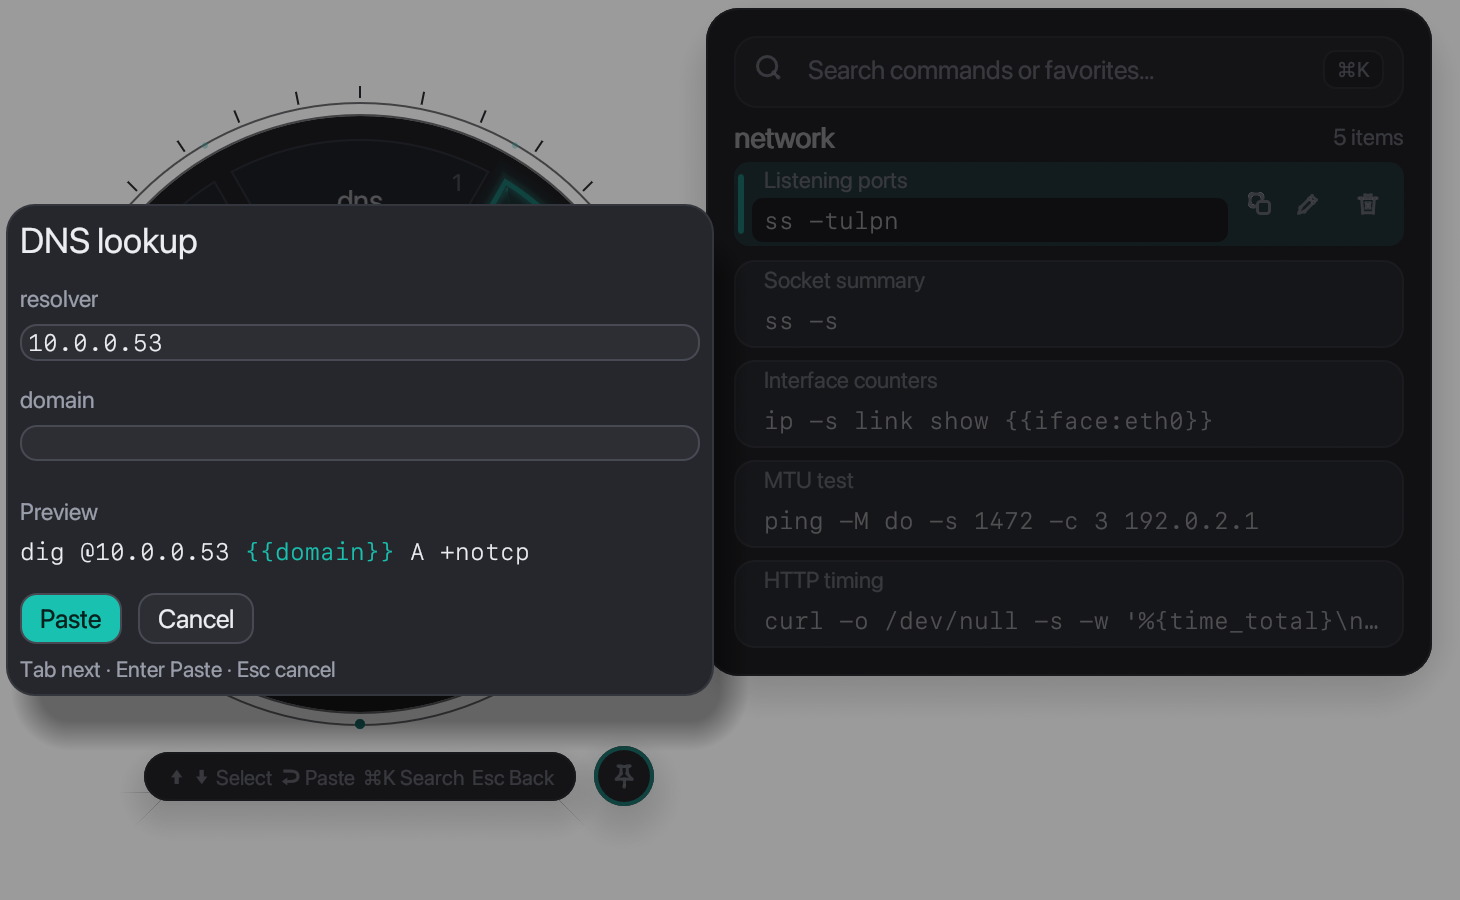
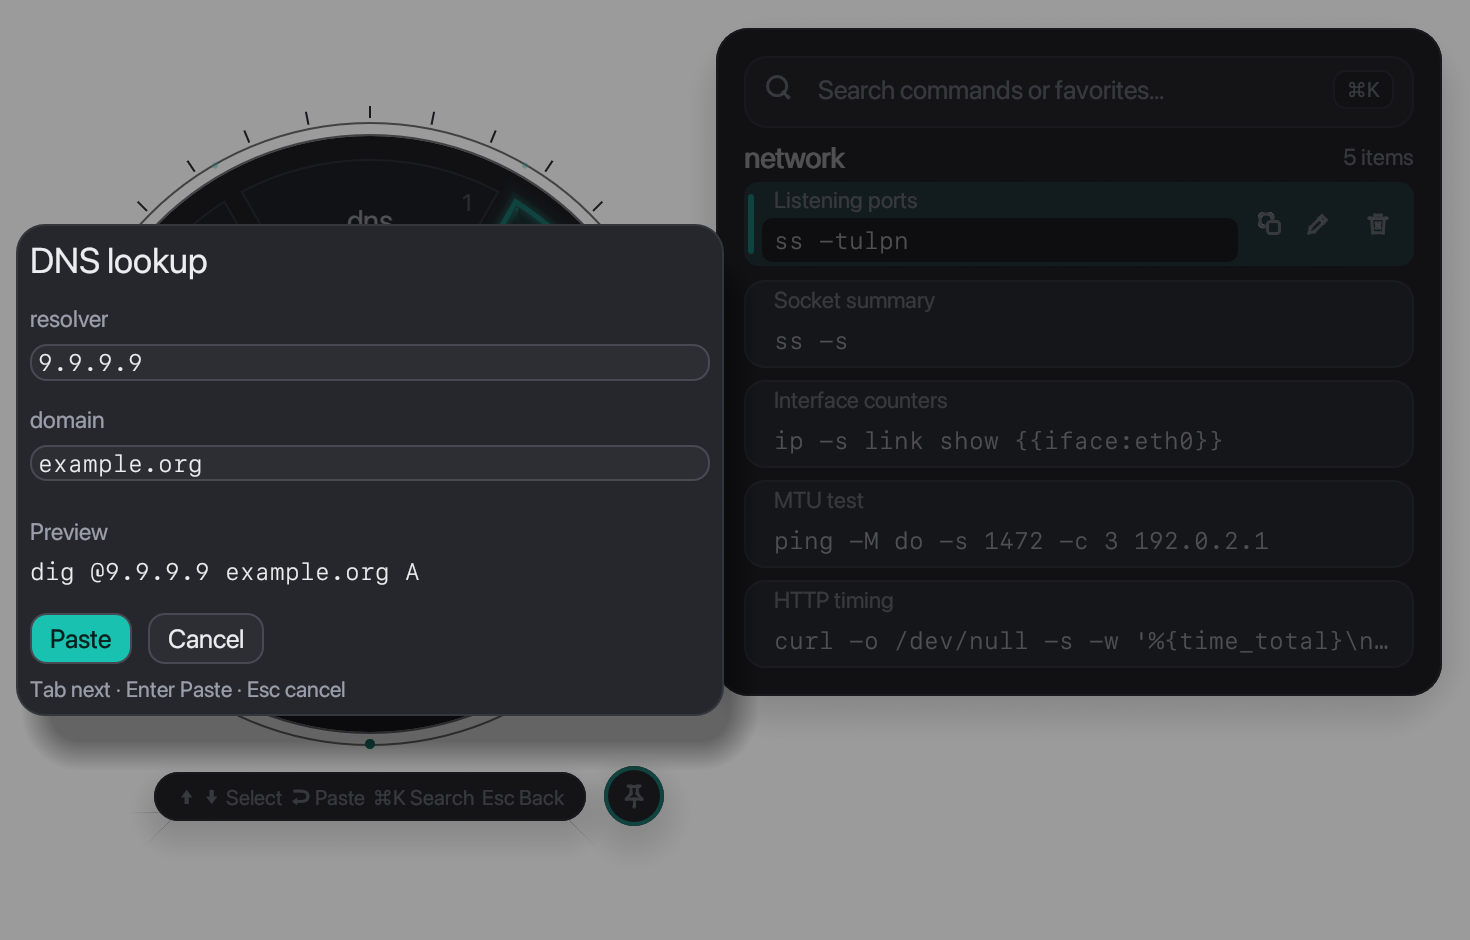
Rewrite README as a screenshot tour

diff --git a/src/app.rs b/src/app.rs
@@ -349,7 +349,7 @@ impl App {
             app.pending_snippet = Some(PendingSnippet {
                 prompt: forms::SnippetPrompt::new(
                     "DNS lookup",
-                    vec!["dig @{{resolver:10.0.0.53}} {{domain}} A +notcp".into()],
+                    vec!["dig @{{resolver:9.9.9.9}} {{domain:example.org}} A".into()],
                     &HashMap::new(),
                 ),
                 request: ClipboardRequest { items: Vec::new(), paste: true, close: true },

diff --git a/README.md b/README.md
@@ -1,55 +1,89 @@
-# CopyWheel
+<div align="center">
+  <h1>CopyWheel</h1>
+  <p>A keyboard-first clipboard history and command wheel for macOS.</p>
+  <p>
+    <a href="https://github.com/guneskursad/copywheel/releases/latest"><img src="https://img.shields.io/github/v/release/guneskursad/copywheel?label=latest%20release" alt="Latest release"></a>
+    <a href="LICENSE"><img src="https://img.shields.io/badge/license-AGPL--3.0-blue" alt="AGPL-3.0 license"></a>
+    <img src="https://img.shields.io/badge/platform-macOS%2011%2B-lightgrey" alt="macOS 11 or later">
+  </p>
+  <p><strong><a href="https://github.com/guneskursad/copywheel/releases/latest/download/CopyWheel.dmg">Download CopyWheel.dmg</a></strong></p>
+</div>
 
-Keyboard-first clipboard history, command favorites, and radial wheel for macOS.
+<img src="docs/images/hero.png" width="100%" alt="CopyWheel command wheel with an open group of saved commands">
 
-CopyWheel keeps your clipboard history and saved commands a single keystroke away in a fast native macOS utility. Browse and search recent clips in a two-pane panel with a full content preview, or launch frequently used commands from a radial wheel organized by nested groups. Everything runs locally on your Mac with zero network access and full dark mode support.
+## Two shortcuts
 
-## Screenshots
+| Shortcut | Opens |
+| --- | --- |
+| `⌘⇧V` | The panel for History, Favorites, and Settings |
+| `⌃⇧F` | The wheel |
 
-| Clipboard history & preview | Radial wheel | Snippet variable prompt |
-| --- | --- | --- |
-| ![Clipboard history panel with preview pane](docs/images/history.png) | ![Radial wheel showing command groups](docs/images/wheel.png) | ![Snippet variable prompt dialog](docs/images/snippet.png) |
+## Tour
 
-## Features
+### Clipboard history
 
-- **Two-pane panel with preview** — Browse clipboard history or favorites on the left while reading the full, unwrapped content and metadata (source app, timestamp, length) on the right.
-- **Fuzzy search with frecency** — Instant filtering across clipboard text, source app, favorite titles, and group paths, ranked by match quality and frecency (frequency + recency).
-- **Favorites in nested groups** — Organize reusable commands and text snippets into collapsible, arbitrarily nested groups with color markers.
-- **Radial wheel** — Trigger a circular launcher to jump into command groups and paste items with `⌘1`–`⌘9` or arrow keys; reopens on the last used segment and page.
-- **Snippet variables** — Parameterize commands with `{{name}}` and `{{name:default}}` placeholders and fill them in a keyboard-driven prompt before pasting.
-- **Dark mode** — Follows macOS System appearance automatically or switches manually between Light and Dark themes in Settings.
-- **Password-manager protection** — Automatically skips concealed, transient, and auto-generated pasteboard items so copied passwords are not stored.
-- **Local only** — All data stays on your Mac with no cloud sync, telemetry, or network connections.
+Search recent clips and preview their full content in the panel. Press Return to paste the selected clip.
+
+<img src="docs/images/panel.png" width="100%" alt="Clipboard history with a list of recent clips and a preview of the selected command">
+
+### Favorites in groups
+
+Save commands and reusable text as favorites. Organize them in color-coded groups that can nest inside one another.
+
+<img src="docs/images/favorites.png" width="100%" alt="Favorites panel showing saved commands organized by group">
+
+### The wheel
+
+Open a group from the wheel and choose a saved command from the list beside it. The wheel remembers your last segment and page.
+
+<img src="docs/images/wheel.png" width="100%" alt="Command wheel in light mode with a selected segment and its saved commands in a side list">
+
+### Jump with numbers
+
+Hold Command to see the shortcut numbers. Press Command and a number to select a segment or use an item in the active list.
+
+<img src="docs/images/shortcuts.png" width="100%" alt="Command wheel with number shortcuts visible on its segments">
+
+### Snippet variables
+
+Add placeholders to a favorite. CopyWheel asks for their values before copying or pasting the snippet.
+
+```text
+dig @{{resolver:9.9.9.9}} {{domain:example.org}} A
+```
+
+<img src="docs/images/snippet.png" width="100%" alt="Snippet prompt with fields for a DNS resolver and domain">
+
+### Light and dark
+
+Follow the system appearance or pick Light or Dark in Settings.
+
+<table>
+  <tr>
+    <td width="50%"><img src="docs/images/theme-light.png" width="100%" alt="Clipboard history in light mode"></td>
+    <td width="50%"><img src="docs/images/panel.png" width="100%" alt="Clipboard history in dark mode"></td>
+  </tr>
+</table>
+
+### Settings
+
+Change shortcuts, auto-paste, and how CopyWheel keeps your history. You can also import or export a backup.
+
+<img src="docs/images/settings.png" width="100%" alt="Settings panel showing appearance, history, and keyboard shortcut options">
 
 ## Install
 
-Download the latest `.dmg` archive from the Releases page, open it, and drag `CopyWheel.app` into your `Applications` folder. See [docs/INSTALL.md](docs/INSTALL.md) for Gatekeeper first-open steps, Accessibility permission setup for auto-paste, data locations, and uninstall instructions.
+1. Download the DMG, open it, and drag CopyWheel to Applications.
+2. On first launch, right-click CopyWheel and choose **Open**. The app is unnotarized. If macOS still blocks it, see the install guide.
+3. Grant CopyWheel **Accessibility** access to enable auto-paste.
+4. Press `⌘⇧V` to open the panel.
 
-## Build from source
-
-Building requires a Rust toolchain, Xcode Command Line Tools, and macOS. From the repository root:
-
-```bash
-# Build CopyWheel.app
-scripts/make-app.sh
-
-# Package a distributable DMG and SHA256SUMS in dist/
-scripts/make-dmg.sh
-```
+See the [install guide](docs/INSTALL.md) for details.
 
 ## Keyboard shortcuts
 
-### Global hotkeys
-
-Default shortcuts can be customized in **Settings** (`⌘,`):
-
-| Shortcut | Action |
-| --- | --- |
-| `⌘⇧V` | Open the History panel (press again while open to toggle History ↔ Favorites) |
-| `⌃⌥F` | Open the Favorites panel |
-| `⌃⇧F` | Open the radial wheel |
-
-### Panel
+<details>
+<summary>Panel</summary>
 
 | Key / Mouse | Action |
 | --- | --- |
@@ -72,7 +106,10 @@ Default shortcuts can be customized in **Settings** (`⌘,`):
 | `⌘,` | Open Settings |
 | `Esc` | Close popup → clear marks → clear query → hide panel |
 
-### Wheel
+</details>
+
+<details>
+<summary>Wheel</summary>
 
 The wheel reopens on the last used segment and page.
 
@@ -91,25 +128,32 @@ The wheel reopens on the last used segment and page.
 | `⌘J` | Next page on the main wheel |
 | `Esc` | Return from side list to wheel, go up one group level, or close |
 
-## Snippet variables
-
-Any favorite can include placeholders using `{{name}}` or `{{name:default}}`, where `name` uses `[A-Za-z0-9_.-]`.
-
-```text
-dig @{{resolver:9.9.9.9}} {{domain:example.org}} A
-```
-
-When you paste or copy a favorite containing variables, CopyWheel opens a compact prompt with one input per variable in order of first appearance. Each field is prefilled with the last value you used for that variable (or its default if none has been saved yet). Press `Tab` / `⇧Tab` to move between fields, `↵` to fill and paste, or `Esc` to cancel.
+</details>
 
 ## Privacy
 
-- **Local storage only**: All clipboard history, favorites, and settings stay on your Mac under `~/Library/Application Support/CopyWheel/`. The directory is created with mode `0700` and all stored files (`data.json`, `images/*`, temporary files, and exports) are written with mode `0600`.
-- **No network access**: CopyWheel makes no outbound network requests and collects no telemetry.
-- **Sensitive pasteboard filtering**: Items marked by password managers or macOS as concealed, transient, or auto-generated are skipped by default and never written to disk.
-- **Plain-text exports**: Exported backup files are stored in plain text; handle them accordingly when sharing or backing up.
+- **Local storage only**. All clipboard history, favorites, and settings stay on your Mac under `~/Library/Application Support/CopyWheel/`. The directory uses mode `0700`. All stored files (`data.json`, `images/*`, temporary files, and exports) use mode `0600`.
+- **No network access**. CopyWheel makes no outbound network requests and collects no telemetry.
+- **Sensitive pasteboard filtering**. Items marked by password managers or macOS as concealed, transient, or auto-generated are skipped by default and never written to disk.
+- **Plain-text exports**. Exported backup files are stored in plain text.
+
+<details>
+<summary>Build from source</summary>
+
+Building requires a Rust toolchain, Xcode Command Line Tools, and macOS. Run these commands from the repository root.
+
+```sh
+# Build CopyWheel.app
+scripts/make-app.sh
+
+# Package a distributable DMG and SHA256SUMS in dist/
+scripts/make-dmg.sh
+```
+
+</details>
 
 ## License
 
-CopyWheel is licensed under the **GNU Affero General Public License v3.0 only** (`AGPL-3.0-only`). See [LICENSE](LICENSE) for the full text.
+CopyWheel is licensed under the GNU Affero General Public License v3.0 only (AGPL-3.0-only). See [LICENSE](LICENSE).
 
 Copyright © 2026 Kürşad Güneş
